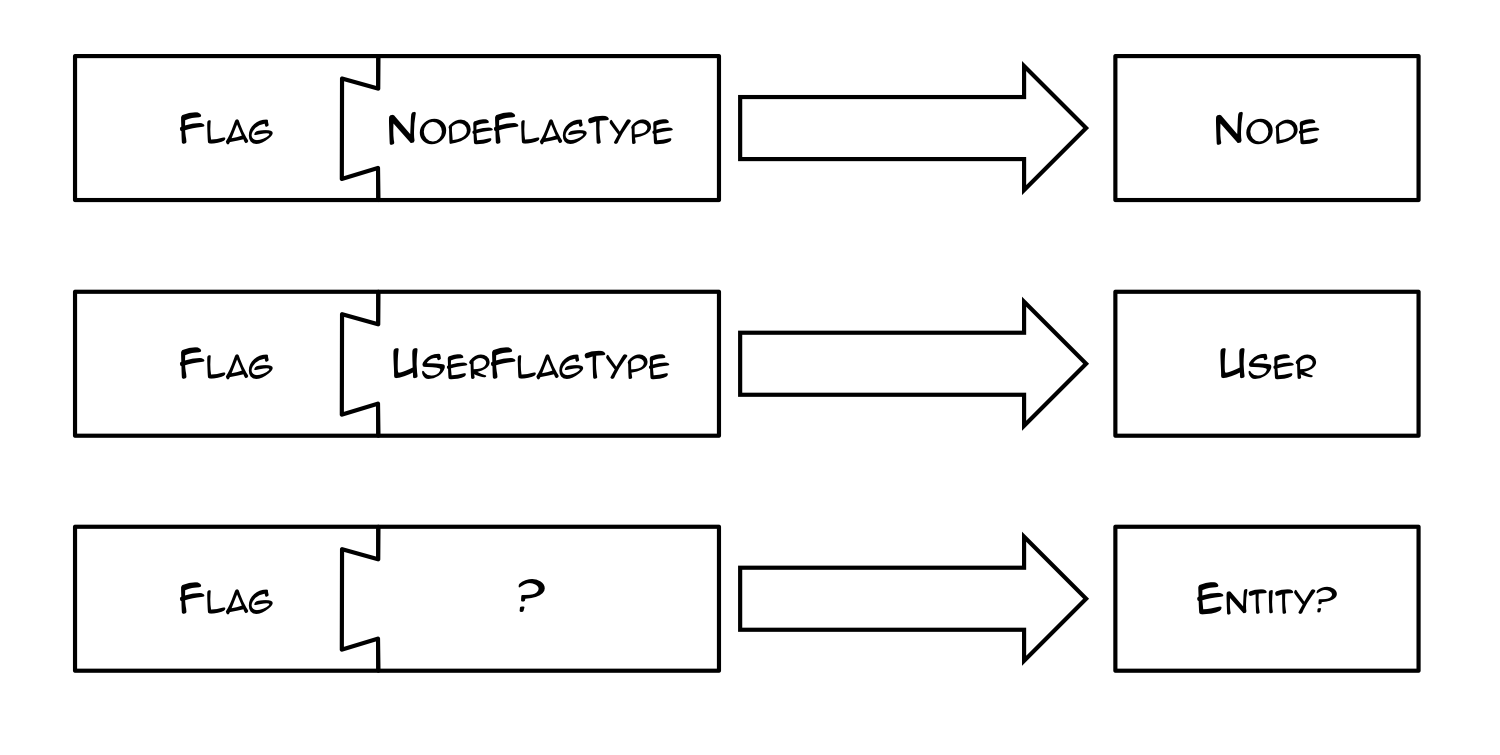
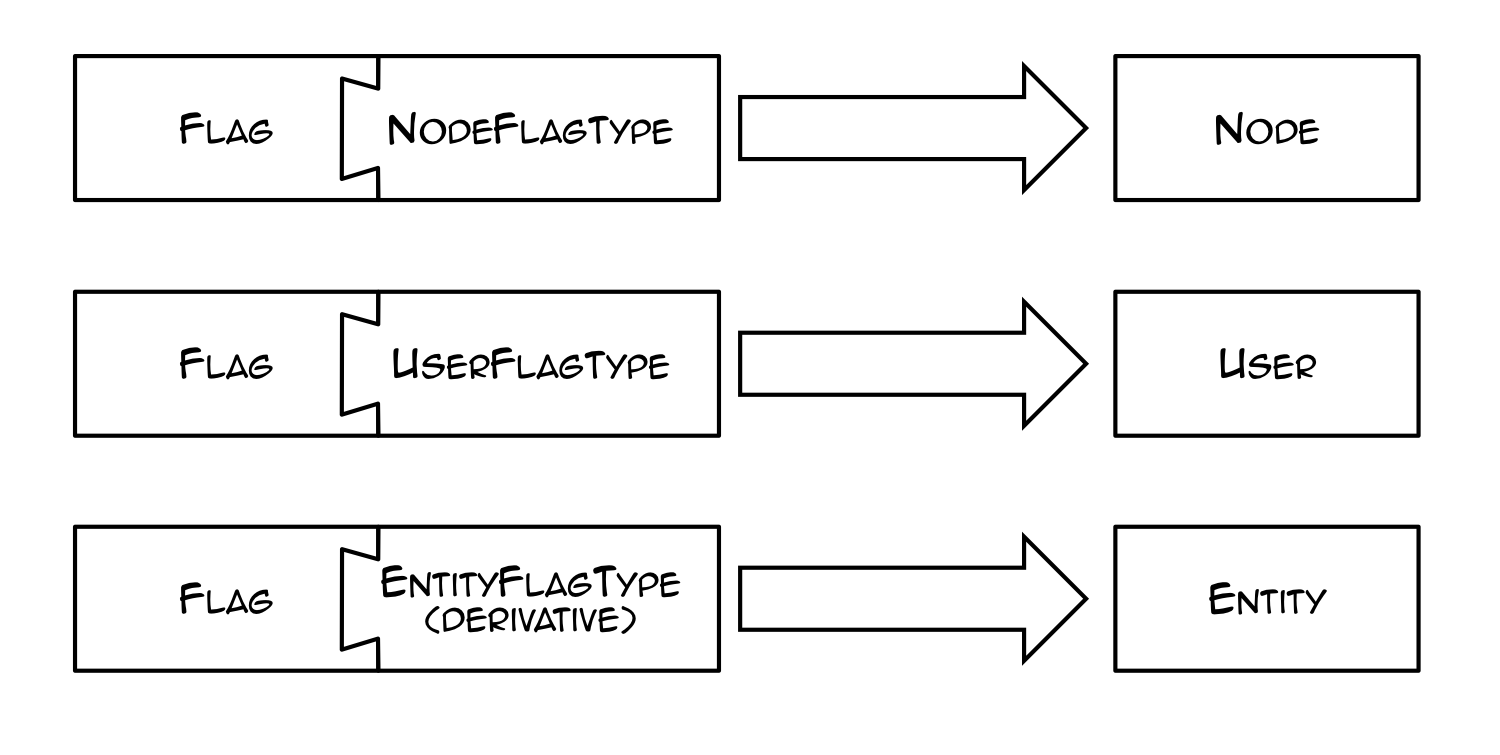
Trimmed the Plugin section.

Changed region(s): [[0.2453, 0.7311, 0.46, 0.853], [0.7973, 0.7616, 0.8893, 0.8225]]

diff --git a/index.html b/index.html
@@ -619,27 +619,17 @@ ConfigEntityBase::set($property_name, $value);</code></pre>
                 <section data-transition="none">
                     <img src="images/flagType5.png" />
                 </section>
-                <section data-transition="none">
-                    <img src="images/flagType6.png" />
-                </section>
-                <section data-transition="none">
-                    <img src="images/flagType7.png" />
-                </section>
                 <section>
                     <h2>Flag Type Plugin</h2>
                     <div>Relates the Flag to the Flaggable</div>
                     <div>Discoverable using <code>@FlagType</code> annotation</div>
+                    <div>Added dynamically, not a subclass!</div>
                 </section>
                 <section>
                     <img src="images/flagTypeClasses.png" />
                 </section>
                 <section data-transition="none">
                     <img src="images/flagType8.png" />
-                </section>
-                <section>
-                    <h2>Plugin Derivatives</h2>
-                    <div>Creates multiple plugins using data</div>
-                    <div>One EntityFlagType plugin created per entity type</div>
                 </section>
                 <section data-transition="none">
                     <img src="images/linkType1.png" />
